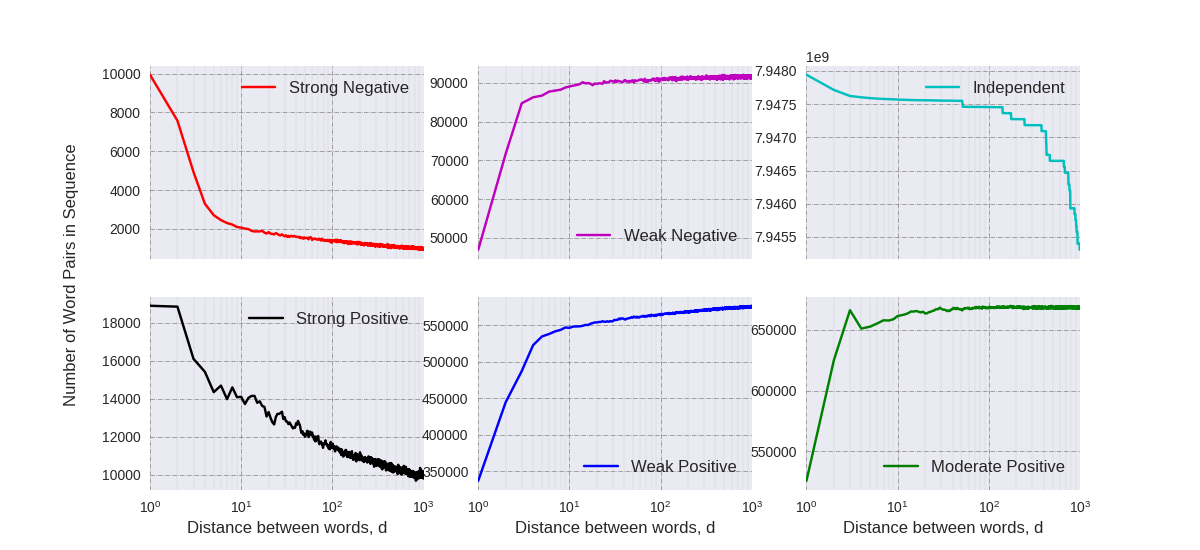
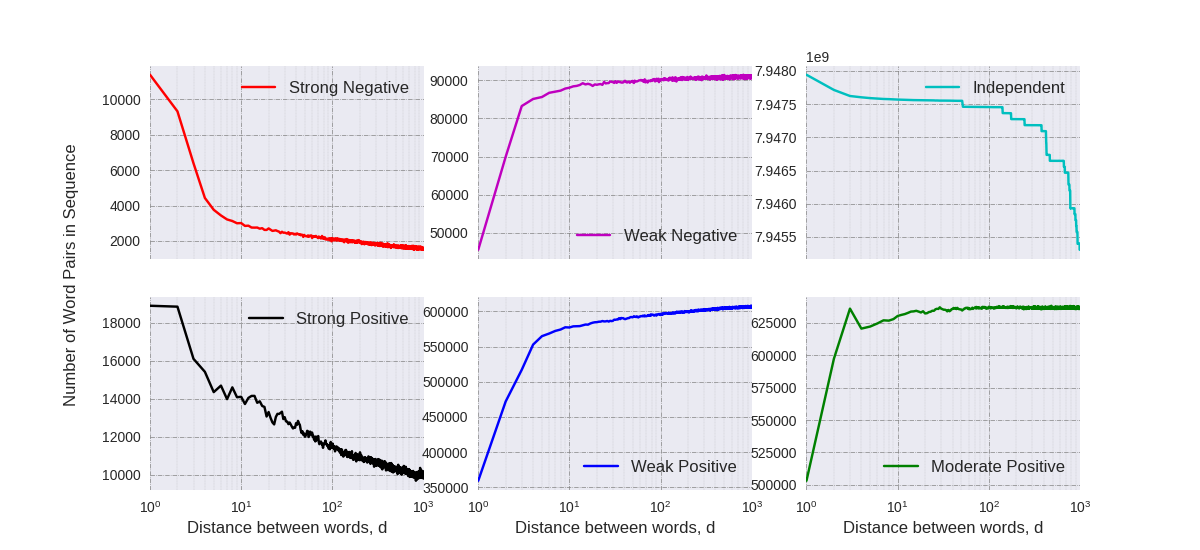
Up

diff --git a/paper_related/co-occurrence/plot_cooccur.py b/paper_related/co-occurrence/plot_cooccur.py
@@ -5,13 +5,14 @@ import matplotlib.pyplot as plt
 import numpy as np
 
 filenames = ["1","2","4","5","6","9","12","13","14","15","17","18","20"]
+# indexes = [ 0,  1,  2,  3,  4,  5,  6,   7,   8,   9,   10,  11,  12]
 
-f = open("marginal_dependence_<unk>_"+filenames[6], "r")
-# f = open("word_pair_dependence_"+filenames[6], "r")
+# f = open("marginal_dependence_<unk>_"+filenames[2], "r")
+f = open("word_pair_dependence_"+filenames[12], "r")
 lines = f.readlines()
 f.close()
 
-print("word_pair_dependence_"+filenames[6])
+print("word_pair_dependence_"+filenames[12])
 
 start = 0
 end = 0
@@ -109,5 +110,5 @@ with plt.style.context(('seaborn')):
 	print(fig.get_figwidth())
 	print(fig.get_figheight())
 
-	plt.savefig('pmi_word_<unk>_12')
+	plt.savefig('pmi_plots_text8_subset_wor_4')
 	plt.show()
